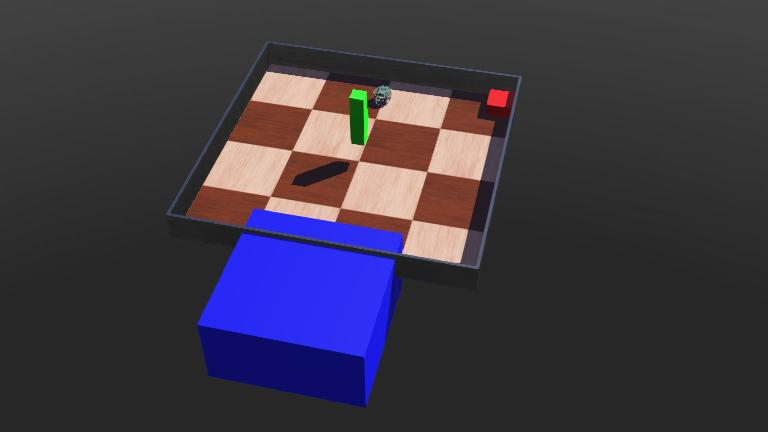
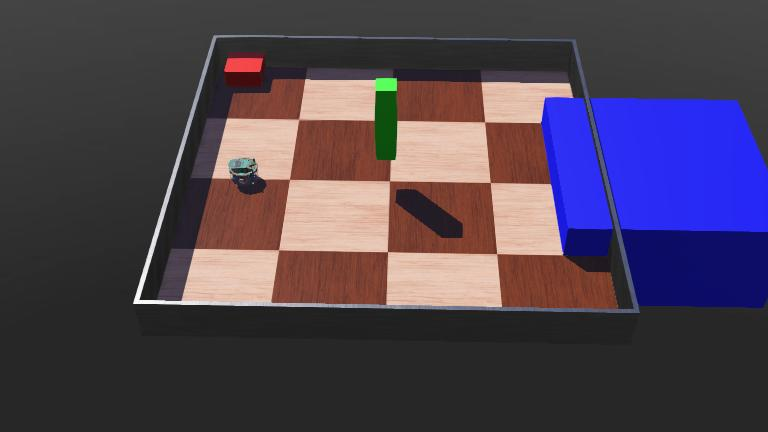
survivor detection readjusted

diff --git a/controllers/AI_Controller/AI_Controller.py b/controllers/AI_Controller/AI_Controller.py
@@ -88,11 +88,11 @@ pending_seen_theta = 0.0
 # Approach parameters
 approach_lost_counter = 0
 APPROACH_SPEED = 0.25 * MAX_SPEED
-APPROACH_LOST_LIMIT = 30
+APPROACH_LOST_LIMIT = 50
 target_ignore_counter = 0
 TARGET_IGNORE_TIME = 100
 REACQUIRE_TURN_SPEED = 0.2 * MAX_SPEED
-CENTER_TOLERANCE_RATIO = 0.12
+CENTER_TOLERANCE_RATIO = 0.2
 
 # Duplicate distances
 GREEN_DUPLICATE_DIST = 0.45
@@ -100,8 +100,8 @@ RED_DUPLICATE_DIST = 0.35
 BLUE_DUPLICATE_DIST = 0.35
 
 # Sensor threshold for confirming object location
-GREEN_CONFIRM_RATIO = 0.10
-GREEN_CONFIRM_THRESHOLD = 79.0
+GREEN_CONFIRM_RATIO = 0.4
+GREEN_CONFIRM_THRESHOLD =65.0
 RED_CONFIRM_THRESHOLD = 78.0
 BLUE_CONFIRM_THRESHOLD = 77.0
 